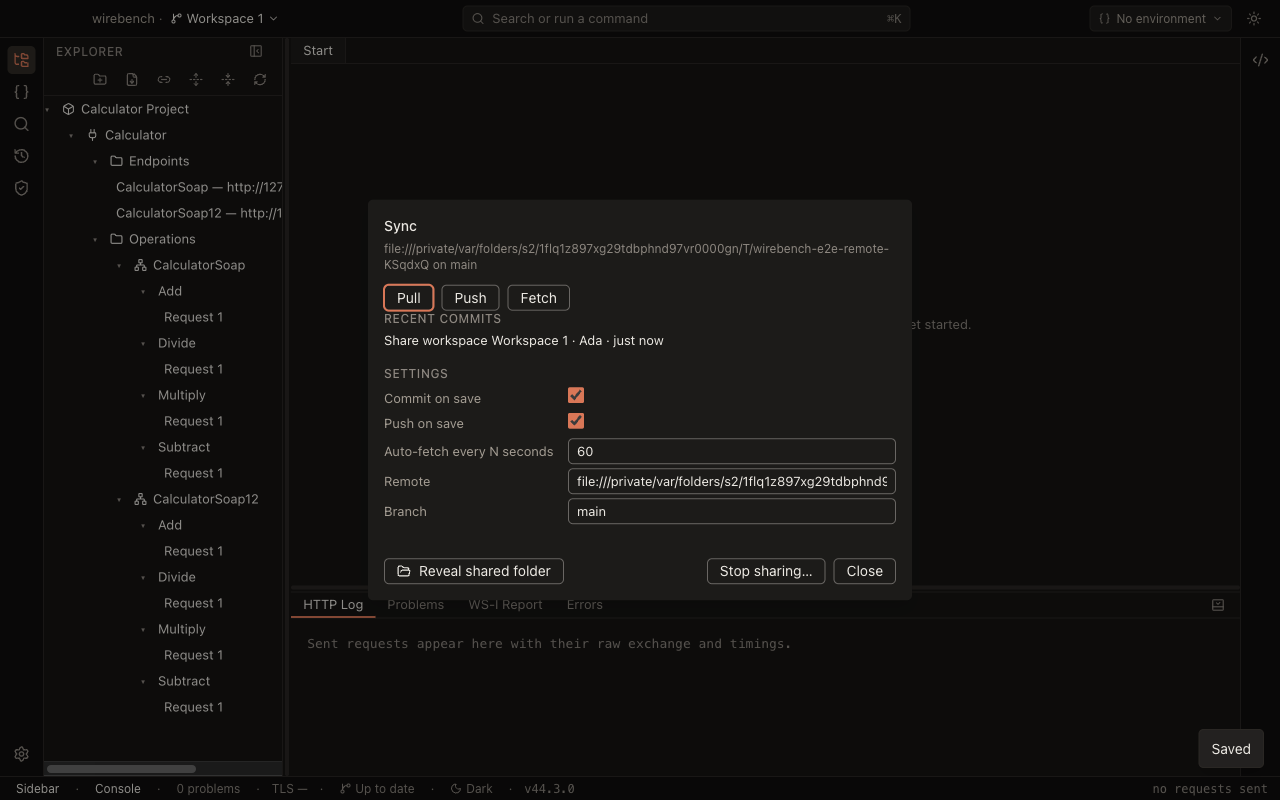
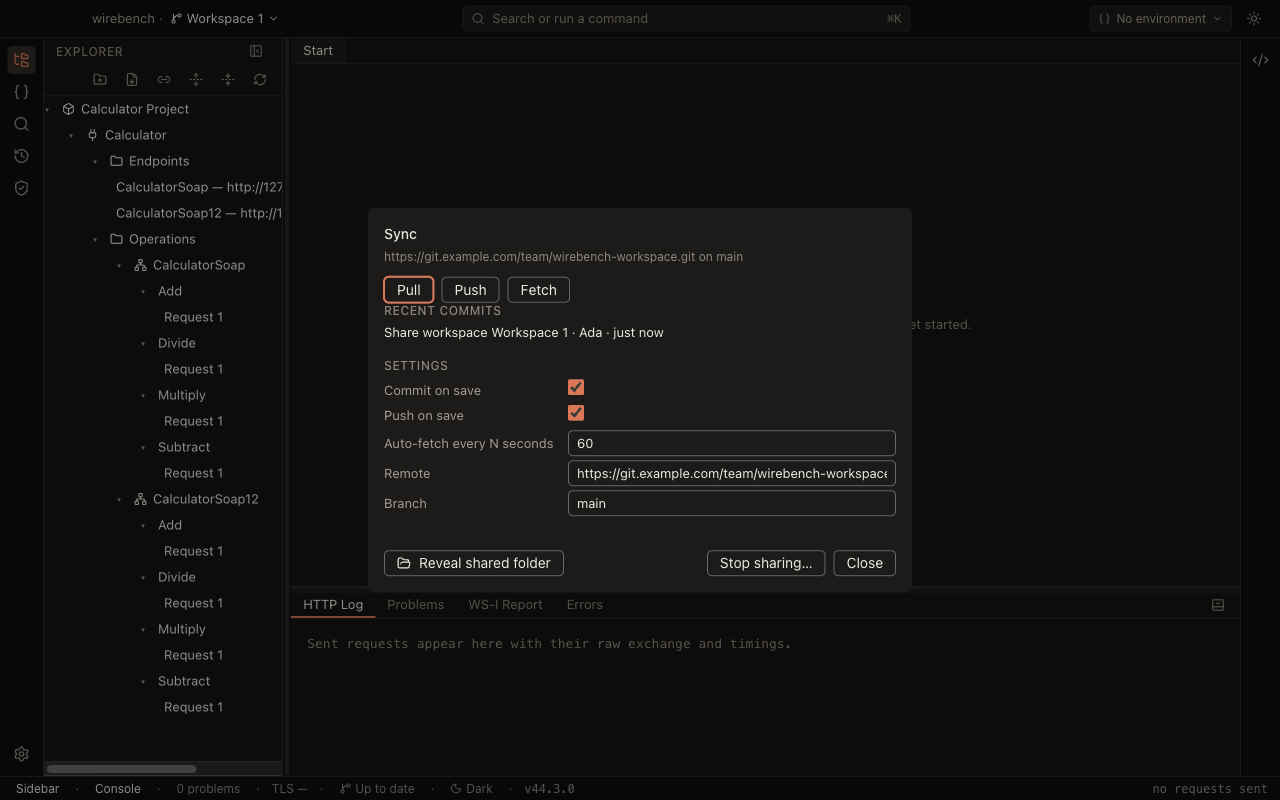
docs: re-shoot the sync screenshots with a realistic remote and no toast
The captures now share and join https://git.example.com/team/wirebench-workspace.git,
rewritten to the local test remote in the profile's global git config, and
wait for toasts to clear before shooting (the toast viewport gains a testid).

diff --git a/e2e/specs/screenshots.spec.ts b/e2e/specs/screenshots.spec.ts
@@ -1,8 +1,9 @@
-import { mkdirSync, writeFileSync } from 'node:fs';
+import { mkdirSync, mkdtempSync, writeFileSync } from 'node:fs';
+import { tmpdir } from 'node:os';
 import { join } from 'node:path';
 import { fileURLToPath } from 'node:url';
 import { expect, test, type Locator, type Page } from '@playwright/test';
-import { ADA, createBareRemote, gitConfigEnv } from '../helpers/git-remote.js';
+import { ADA, createBareRemote } from '../helpers/git-remote.js';
 import { launchApp, removeDirSync, type LaunchedApp } from '../helpers/launch-app.js';
 import { runCommand } from '../helpers/palette.js';
 import {
@@ -99,9 +100,27 @@ function timingRegions(page: Page): Locator[] {
 function restTimingRegions(page: Page): Locator[] {
   return [page.getByTestId('rest-response-status'), page.locator('[data-testid="http-log-row"]')];
 }
+/** The remote the sync captures show: a realistic URL rather than the test remote's temp folder. */
+const SHOWN_REMOTE = 'https://git.example.com/team/wirebench-workspace.git';
+/**
+ * Git config for a sync capture's profile: Ada's identity plus `url.<test remote>.insteadOf`, so
+ * the app is genuinely configured with {@link SHOWN_REMOTE} while git itself talks to the local
+ * bare remote. It is the global config the launch points at, never a repository's own, so the
+ * app's local-config check has nothing to refuse.
+ */
+function shownRemoteEnv(remoteUrl: string): Record<string, string> {
+  const file = join(mkdtempSync(join(tmpdir(), 'wirebench-e2e-gitconfig-')), 'gitconfig');
+  writeFileSync(
+    file,
+    `[user]\n\tname = ${ADA.name}\n\temail = ${ADA.email}\n[url "${remoteUrl}"]\n\tinsteadOf = ${SHOWN_REMOTE}\n`,
+    'utf8',
+  );
+  return { GIT_CONFIG_GLOBAL: file, GIT_CONFIG_NOSYSTEM: '1' };
 
 /** Shoots the whole window into `docs/images/<name>.png` and fails if it got too heavy. */
 async function capture(page: Page, name: string, options: { mask?: Locator[] } = {}): Promise<void> {
+  // A toast ("Saved", "Pulled 3 changes…") is passing chrome, not part of the screen documented.
+  await expect(page.getByTestId('toast-viewport').locator(':scope > div')).toHaveCount(0, { timeout: 15_000 });
   // `scale: 'css'` pins the image to 1280x800 regardless of the display's device pixel ratio:
   // otherwise a Retina machine produces a 2560x1600 file (and a different one from a non-Retina
   // machine), which is both heavier than a README wants and not reproducible across developers.
@@ -211,10 +230,10 @@ test.describe('README screenshots', () => {
     server = await startTestSoapServer({ fixture: 'calculator' });
     const remote = await createBareRemote();
     remoteDir = remote.dir;
-    launched = await launchApp({ extraEnv: gitConfigEnv(ADA) });
+    launched = await launchApp({ extraEnv: shownRemoteEnv(remote.url) });
     await createProjectWithCalculator(window, server);
     await saveAll(window);
-    await shareWorkspace(window, remote.url);
+    await shareWorkspace(window, SHOWN_REMOTE);
     await runCommand(window, 'Sync: Show Sync Panel');
     await expect(window.getByTestId('sync-panel')).toBeVisible();
     await expect(window.getByTestId('sync-log-row').first()).toBeVisible({ timeout: 20_000 });
@@ -226,13 +245,13 @@ test.describe('README screenshots', () => {
     const remote = await createBareRemote();
     remoteDir = remote.dir;
     // Someone else shares the workspace and pushes an edit to the first request…
-    second = await launchApp({ extraEnv: gitConfigEnv(ADA) });
+    second = await launchApp({ extraEnv: shownRemoteEnv(remote.url) });
     await createProjectWithCalculator(second.window, server);
     await saveAll(second.window);
-    await shareWorkspace(second.window, remote.url);
+    await shareWorkspace(second.window, SHOWN_REMOTE);
     // …while this profile, having joined, edits the same line.
-    launched = await launchApp({ extraEnv: gitConfigEnv(ADA) });
-    await joinSharedWorkspace(window, remote.url);
+    launched = await launchApp({ extraEnv: shownRemoteEnv(remote.url) });
+    await joinSharedWorkspace(window, SHOWN_REMOTE);
     await produceRequestConflict(second.window, window, remote.dir);
     await openConflictResolver(window);
     await capture(window, 'conflict-resolver');

diff --git a/apps/desktop/src/renderer/components/toast.tsx b/apps/desktop/src/renderer/components/toast.tsx
@@ -66,6 +66,7 @@ export function ToastViewport() {
     <div
       role="status"
       aria-live="polite"
+      data-testid="toast-viewport"
       className="pointer-events-none fixed right-4 bottom-8 z-50 flex flex-col items-end gap-2"
     >
       {visible.map((toast) => (
